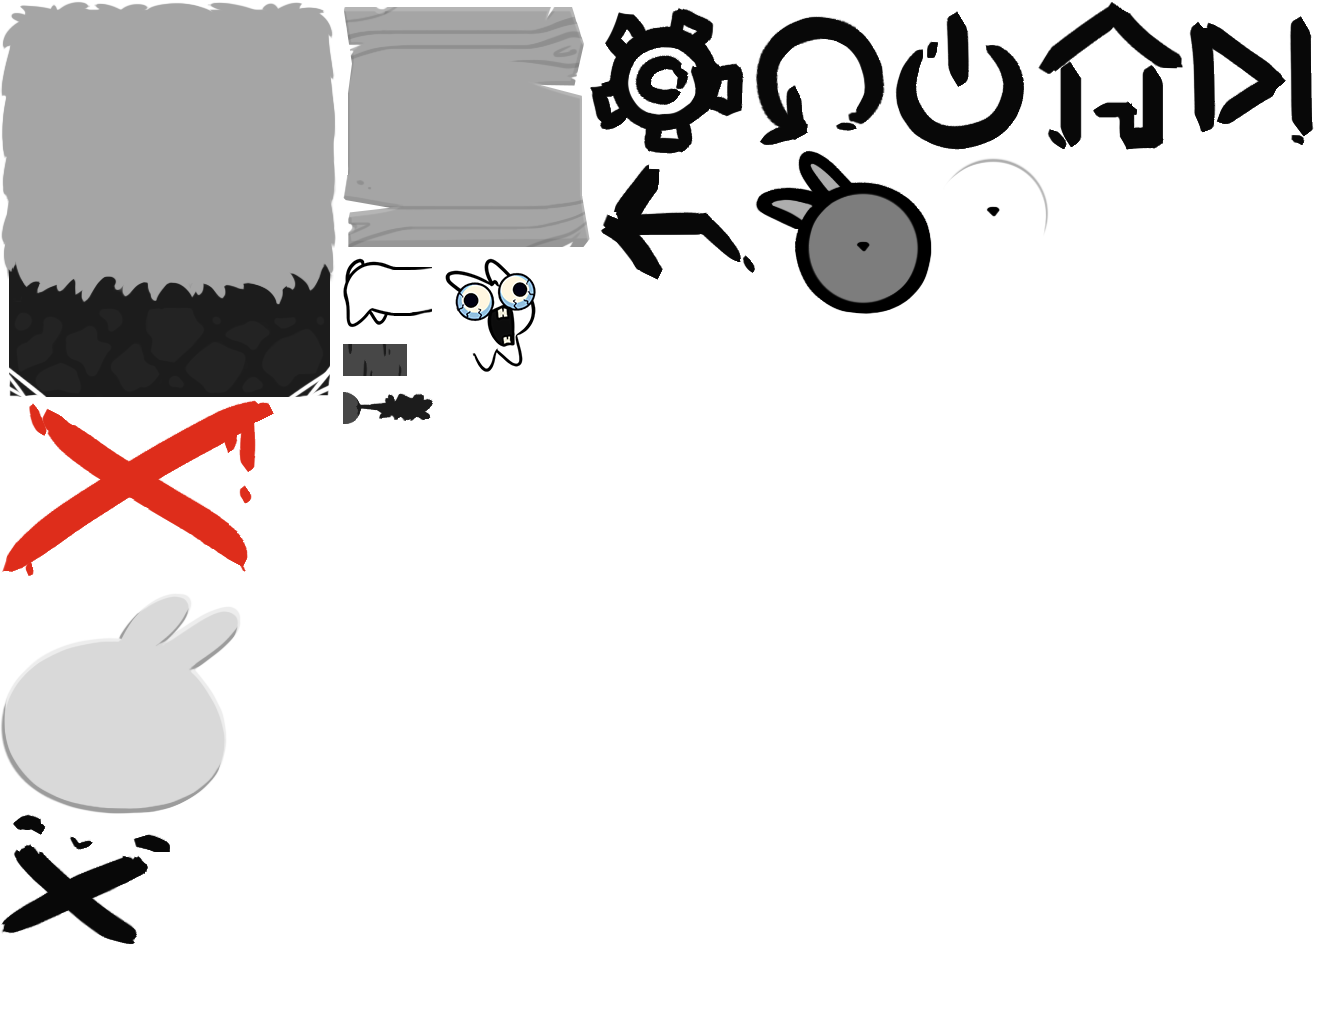
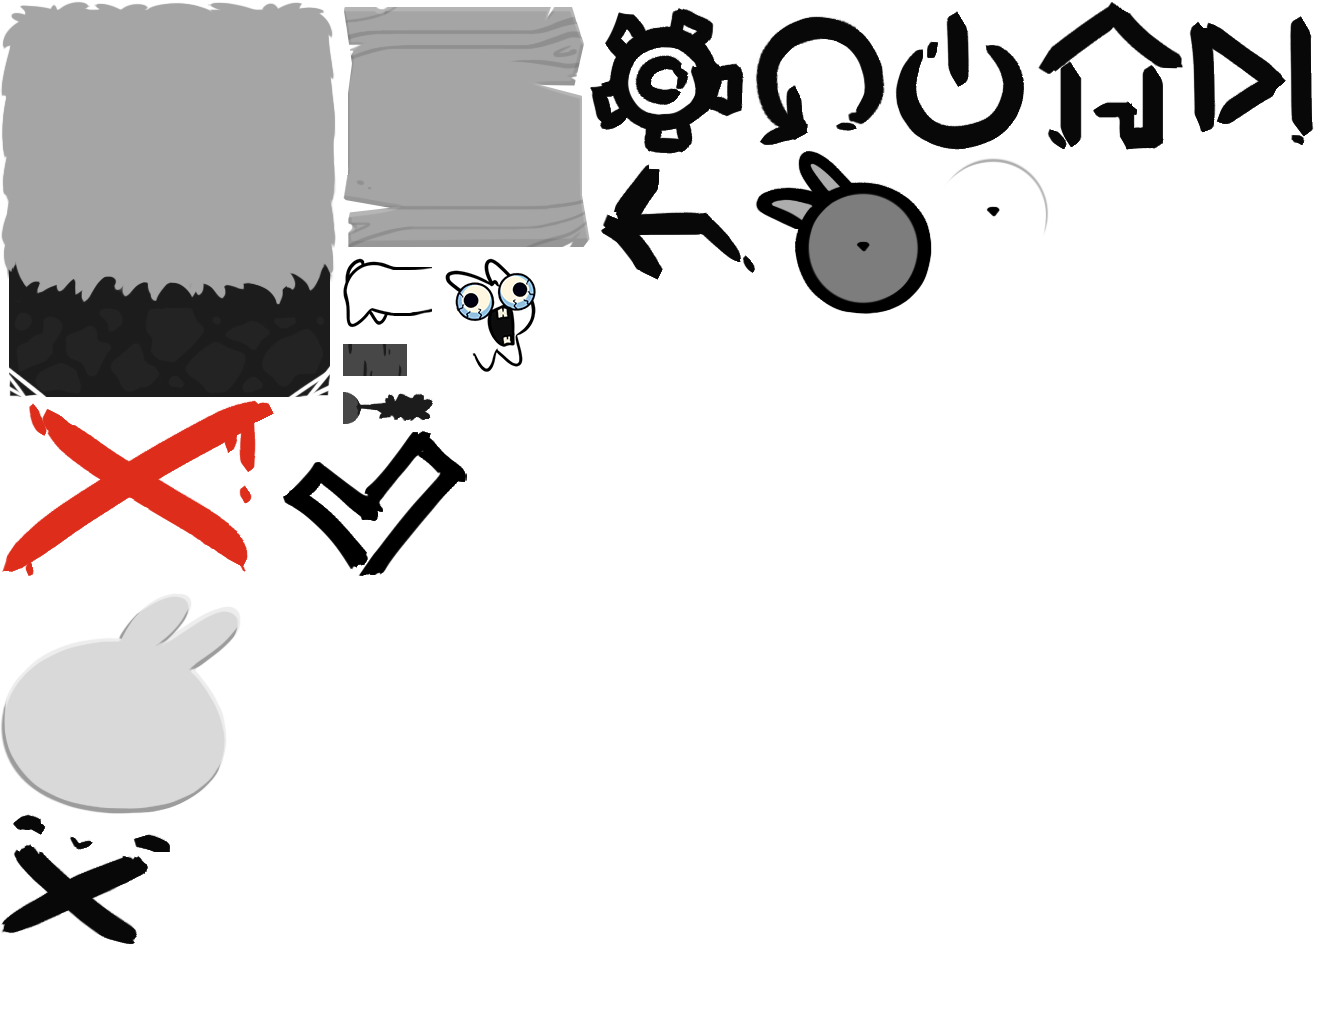
Polishing

Changed region(s): [[0.2153, 0.4062, 0.3691, 0.5625]]

diff --git a/source/gmtk/Assets/Code/Gameplay/Windows/Windows/HomeScreen/GameLevelView.cs b/source/gmtk/Assets/Code/Gameplay/Windows/Windows/HomeScreen/GameLevelView.cs
@@ -8,7 +8,7 @@ namespace Code.Gameplay.Windows.Windows.HomeScreen
     public class GameLevelView : MonoBehaviour
     {
         public Button ClickButton;
-        public TextMeshProUGUI LevelText;
+        public TextMeshProUGUI IndexText;
         public int Index;
         public string LevelId;
         public bool Completed;
@@ -16,6 +16,8 @@ namespace Code.Gameplay.Windows.Windows.HomeScreen
         public Image[] ObjectToLock;
         public float LockedAlpha;
         public float DefaultAlpha;
+        public GameObject CompleteIcon;
+        public GameObject LevelText;
 
         private Action<string, bool> _savedClickCallback;
 
@@ -39,7 +41,7 @@ namespace Code.Gameplay.Windows.Windows.HomeScreen
 
         private void UpdateVisual()
         {
-            LevelText.text = $"Level {Index + 1}";
+            IndexText.text = $"{Index + 1}";
 
             foreach (Image objectToLock in ObjectToLock)
             {
@@ -49,6 +51,9 @@ namespace Code.Gameplay.Windows.Windows.HomeScreen
             }
 
             ClickButton.enabled = Unlocked;
+            
+            CompleteIcon.SetActive(Completed);
+            LevelText.SetActive(Completed == false);
         }
 
         private void InvokeSavedCallback()
